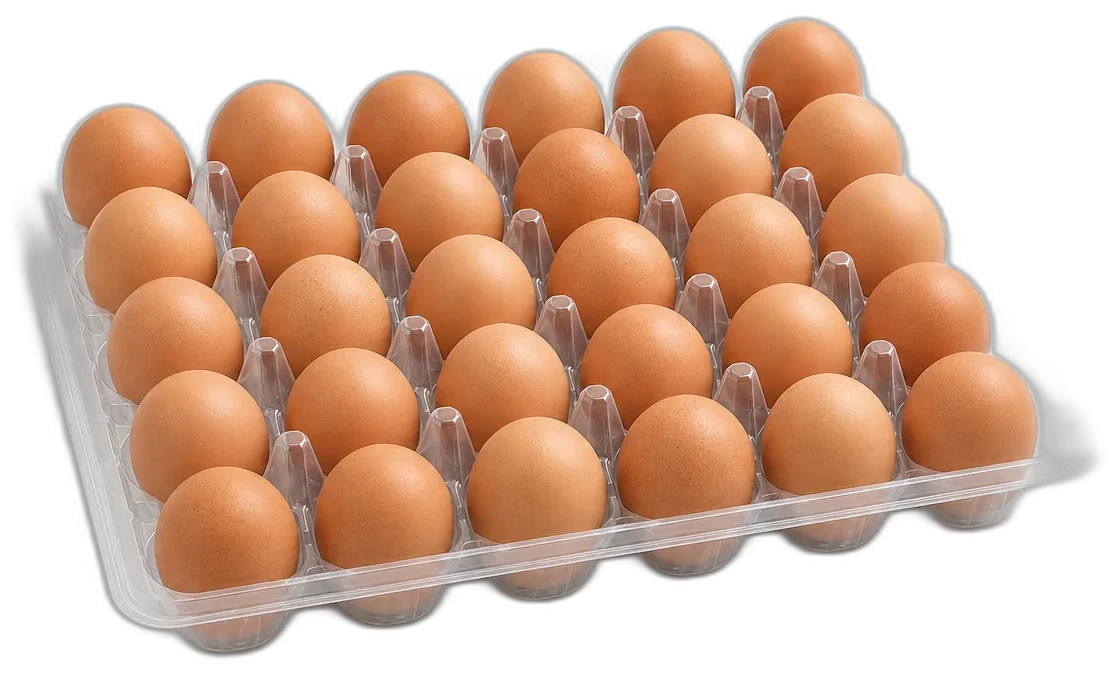
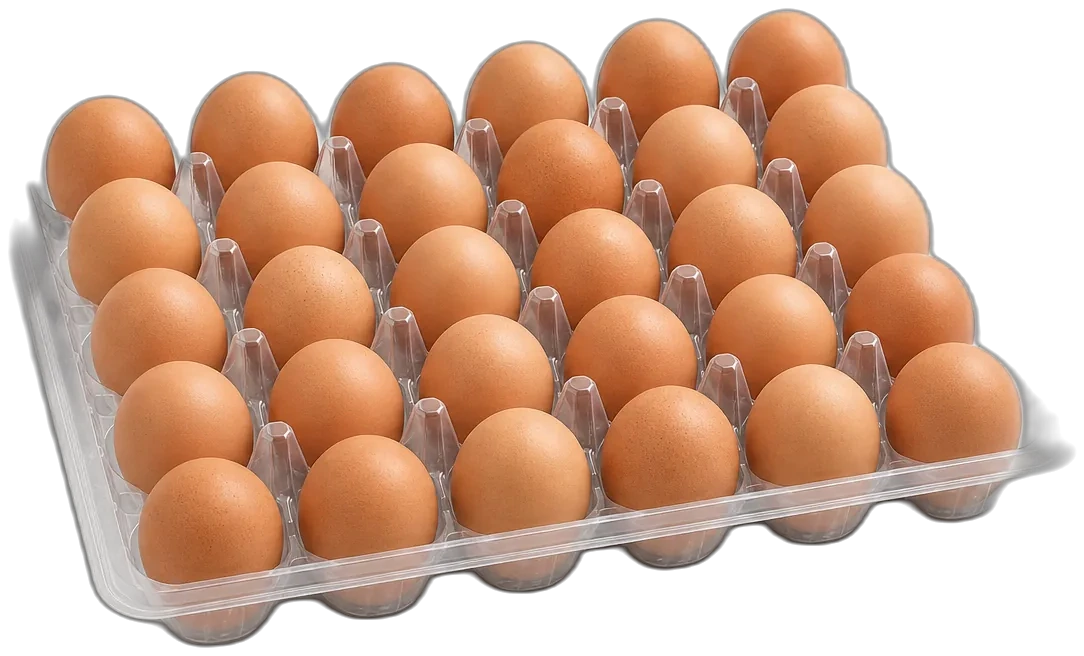
Break the tray out of the media column so it sits on the page
Harden the transparent cutout, drop any residual card framing, and let
the product overhang the hero so it reads as an object on stone (v115).

diff --git a/styles.css b/styles.css
@@ -154,19 +154,25 @@ img { max-width: 100%; height: auto; display: block; }
 .btn-wa { background: var(--wa); color: #fff; }
 
 .hero {
-  padding: 2rem 0 1.25rem;
+  padding: 2rem 0 0.5rem;
   min-height: min(74dvh, 640px);
   display: grid;
   align-items: center;
+  overflow: visible;
 }
 .hero-split {
   display: grid;
-  grid-template-columns: 0.95fr 1.05fr;
-  gap: 2.5rem;
+  grid-template-columns: 0.9fr 1.1fr;
+  gap: 1.25rem;
   align-items: center;
+  overflow: visible;
 }
 
-.hero-copy { animation: rise 0.7s var(--ease) both; }
+.hero-copy {
+  position: relative;
+  z-index: 1;
+  animation: rise 0.7s var(--ease) both;
+}
 
 .hero-line {
   margin: 0 0 0.7rem;
@@ -222,21 +228,43 @@ img { max-width: 100%; height: auto; display: block; }
 }
 
 .hero-visual {
+  position: relative;
+  z-index: 0;
   display: grid;
   place-items: center;
+  justify-self: end;
+  width: min(100%, 640px);
+  margin-right: -1.5rem;
+  margin-bottom: -1.5rem;
+  background: none;
+  border: 0;
+  box-shadow: none;
   animation: rise 0.8s var(--ease) 0.05s both;
 }
 .hero-tray {
-  width: min(100%, 560px);
-  background: transparent;
+  display: block;
+  width: 100%;
+  max-width: none;
+  margin: 0;
+  padding: 0;
+  background: none;
+  border: 0;
+  border-radius: 0;
+  box-shadow: none;
+  overflow: visible;
 }
 .hero-tray img {
   width: 100%;
   height: auto;
   display: block;
   object-fit: contain;
-  background: transparent;
-  filter: drop-shadow(0 18px 28px rgba(18, 20, 18, 0.14));
+  background: none;
+  border: 0;
+  border-radius: 0;
+  box-shadow: none;
+  /* Soft object shadow that follows the cutout alpha — not a rectangular card */
+  filter: drop-shadow(0 22px 18px rgba(18, 20, 18, 0.12))
+          drop-shadow(0 6px 6px rgba(18, 20, 18, 0.06));
 }
 
 @keyframes rise {
@@ -787,8 +815,13 @@ details p {
     gap: 1.35rem;
   }
   .hero-copy { order: 0; }
-  .hero-visual { order: 1; }
-  .hero-tray { width: min(100%, 420px); }
+  .hero-visual {
+    order: 1;
+    width: min(100%, 480px);
+    margin-right: 0;
+    margin-bottom: -0.5rem;
+    justify-self: center;
+  }
   .proof-row { grid-template-columns: 1fr; gap: 0.85rem; }
   .price-bento,
   .pickup-split,

diff --git a/index.html b/index.html
@@ -9,7 +9,7 @@
   <meta property="og:type" content="website">
   <meta property="og:title" content="YOLKO: 30 Eggs for $12 at Flemington Markets">
   <meta property="og:description" content="Book online, pick up Friday or Saturday at Paddy's Markets Flemington. 1 tray $12, 2 trays $23, full box $66.">
-  <meta property="og:image" content="https://getyolko.com/assets/tray-studio.jpg?v=114">
+  <meta property="og:image" content="https://getyolko.com/assets/tray-studio.jpg?v=115">
   <meta property="og:url" content="https://getyolko.com/">
   <meta name="twitter:card" content="summary_large_image">
 
@@ -20,8 +20,8 @@
   <link rel="preconnect" href="https://fonts.googleapis.com">
   <link rel="preconnect" href="https://fonts.gstatic.com" crossorigin>
   <link href="https://fonts.googleapis.com/css2?family=Outfit:wght@400;500;600;700;800&display=swap" rel="stylesheet">
-  <link rel="stylesheet" href="styles.css?v=114">
-  <link rel="preload" as="image" href="assets/tray-cutout.webp?v=114" type="image/webp">
+  <link rel="stylesheet" href="styles.css?v=115">
+  <link rel="preload" as="image" href="assets/tray-cutout.webp?v=115" type="image/webp">
 
   <script type="application/ld+json">
   {
@@ -34,7 +34,7 @@
         "description": "Fresh Pace Farm eggs at Paddy's Markets Flemington. Book online, pick up Friday or Saturday.",
         "url": "https://getyolko.com/",
         "telephone": "[phone redacted]",
-        "image": "https://getyolko.com/assets/tray-studio.jpg?v=114",
+        "image": "https://getyolko.com/assets/tray-studio.jpg?v=115",
         "priceRange": "$$",
         "address": {
           "@type": "PostalAddress",
@@ -54,7 +54,7 @@
         "@type": "Product",
         "@id": "https://getyolko.com/#product-tray",
         "name": "Fresh Egg Tray (30 eggs)",
-        "image": "https://getyolko.com/assets/tray-studio.jpg?v=114",
+        "image": "https://getyolko.com/assets/tray-studio.jpg?v=115",
         "brand": { "@type": "Brand", "name": "Pace Farm" },
         "offers": {
           "@type": "Offer",
@@ -105,8 +105,8 @@
         </div>
         <div class="hero-visual">
           <picture class="hero-tray">
-            <source srcset="assets/tray-cutout.webp?v=114" type="image/webp">
-            <img src="assets/tray-cutout.png?v=114" alt="Pace Farm 30 large eggs tray" width="1116" height="675" fetchpriority="high" decoding="async">
+            <source srcset="assets/tray-cutout.webp?v=115" type="image/webp">
+            <img src="assets/tray-cutout.png?v=115" alt="Pace Farm 30 large eggs tray" width="1084" height="656" fetchpriority="high" decoding="async">
           </picture>
         </div>
       </div>
@@ -212,8 +212,8 @@
           <p>Reserve now. Trays run out most weeks. We confirm the same day.</p>
           <div class="order-tray">
             <picture>
-              <source srcset="assets/tray-cutout.webp?v=114" type="image/webp">
-              <img src="assets/tray-cutout.png?v=114" alt="Pace Farm 30 large eggs tray" width="1116" height="675" loading="lazy" decoding="async">
+              <source srcset="assets/tray-cutout.webp?v=115" type="image/webp">
+              <img src="assets/tray-cutout.png?v=115" alt="Pace Farm 30 large eggs tray" width="1084" height="656" loading="lazy" decoding="async">
             </picture>
             <p><strong>30 large eggs</strong> per tray · Pace Farm · Flemington pickup</p>
           </div>
@@ -367,7 +367,7 @@
     </div>
   </footer>
 
-  <script src="config.js?v=114"></script>
-  <script src="app.js?v=114"></script>
+  <script src="config.js?v=115"></script>
+  <script src="app.js?v=115"></script>
 </body>
 </html>

diff --git a/config.js b/config.js
@@ -3,7 +3,7 @@
 
 const SITE_CONFIG = {
   // Bump when site assets change — forces browsers to fetch fresh files.
-  assetVersion: "114",
+  assetVersion: "115",
 
   // Your WhatsApp number in international format, digits only.
   // Example for an Australian mobile [phone redacted]: "[phone redacted]"

diff --git a/DESIGN.md b/DESIGN.md
@@ -1,4 +1,4 @@
-# YOLKO Design System — locked (v114)
+# YOLKO Design System — locked (v115)
 
 **Design read:** Local-food conversion landing for Flemington shoppers, quiet modern DTC language (Allbirds / Glossier clarity + market product proof). Not a Pace Farm clone. Not cream craft. Not poster.
 